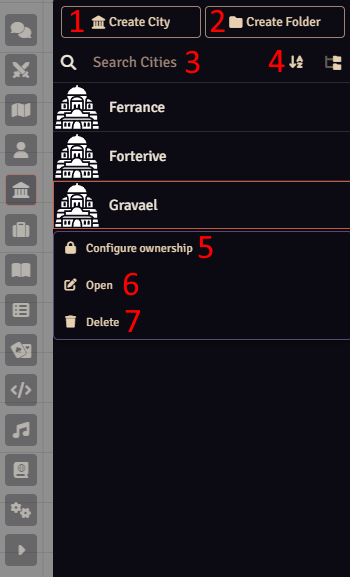
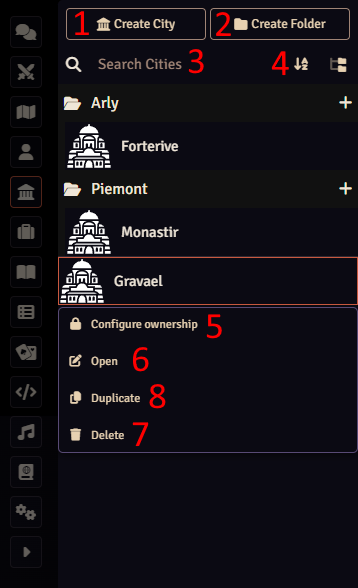
[DOC] Update

Changed region(s): [[0.0, 0.0, 1.0, 1.0], [0.9714, 0.5615, 1.0, 0.5927], [0.9429, 0.156, 0.9714, 0.1872]]

diff --git a/README.md b/README.md
@@ -48,6 +48,7 @@ With this new view you can (cf. [Fig. Cities tab](doc/assets/cities_tab.png)) :
  5. Configure ownership on cities
  6. Open city's informations panel
  7. Delete cities
+ 8. Duplicate cities
 
  <figure>
   <img src="doc/assets/cities_tab.png" alt="Cities tab"/>
@@ -124,8 +125,9 @@ With this panel you can manage city's population.
 
 Features (cf. [Fig. City's population panel](doc/assets/city_panel_population.png)):
 1. Set actual et maximum population of the city
-2. Add (by drag and drop foundry actor) habitant and define his/her role
+2. Add (by drag and drop foundry actor or by button) habitant and define his/her role (link to game actor)
 3. Delete habitant (only module's object. The module doesn't delete linked actor)
+4. Show / hide people to players (GM only feature)
 
 <figure>
   <img src="doc/assets/city_panel_population.png" alt="City's population panel"/>
@@ -141,6 +143,8 @@ Features (cf. [Fig. City's buildings panel](doc/assets/city_panel_buildings.png)
 3. Delete buildings (only module's object. The module doesn't delete linked item)
 4. Update building's image
 5. If building is linked to an item, show his sheet
+6. Show / hide building to players (GM only feature)
+7. Add owner for building (link to game actor)
 
 > Note : Price, nbr and cost are used by Finances panel
 
@@ -153,9 +157,10 @@ Features (cf. [Fig. City's buildings panel](doc/assets/city_panel_buildings.png)
 With this panel you can add items to city's chests.
 
 Features (cf. [Fig. City's chests panel](doc/assets/city_panel_chests.png)): 
-1. Add (by drag and drop foundry item) item (qty, price)
+1. Add (by drag and drop foundry item or by button) item (qty, price)
 2. Delete item (only module's object. The module doesn't delete linked item)
 3. Show item sheet
+4. Show / hide item to players (GM only feature)
 
 > Note : Qty and price are used by Finances panel
 
